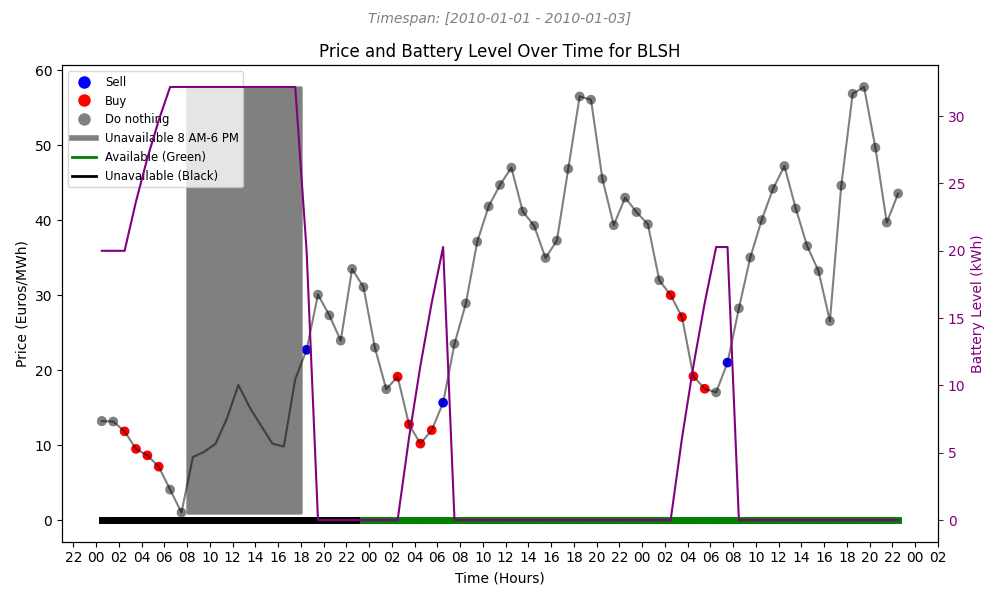
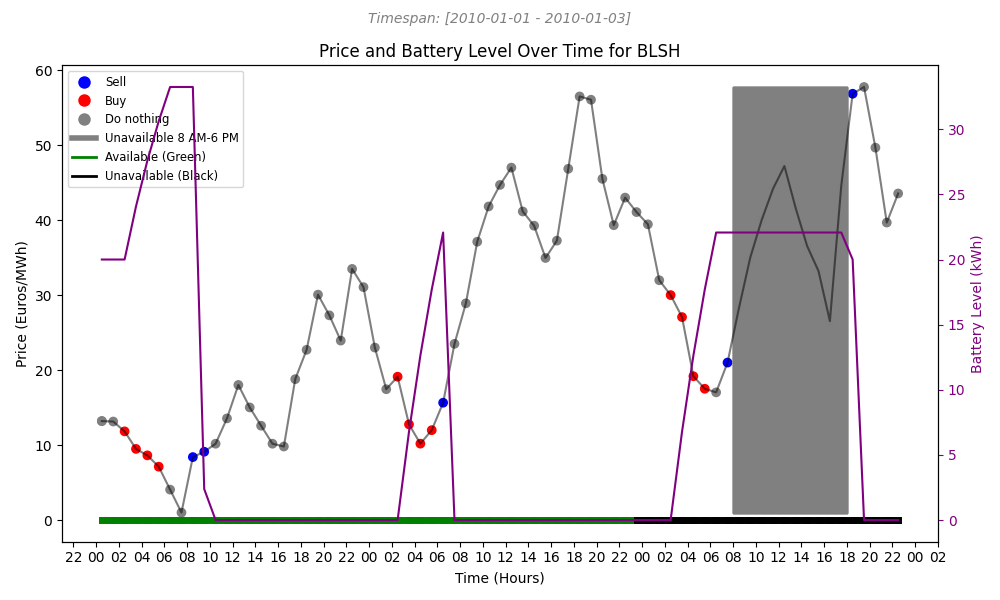
Fix electric car env

diff --git a/ElectricCarEnv.py b/ElectricCarEnv.py
@@ -54,10 +54,12 @@ class ElectricCarEnv(gym.Env):
             self.time_of_day = 1
             # Randomly decide if the car is available for the new day
             self.car_available = np.random.choice([0, 1])
-        # Clip the action to the maximum power
-        min_action = min(action, -min(self.max_power, self.max_battery - self.battery_level))
-        max_action = min(action, min(self.max_power, self.battery_level))
+
+        # Clip the action value to the minimum/maximum power
+        min_action = max(action, -min(self.max_power, self.max_battery - self.battery_level))
+        max_action = min(action / self.efficiency, min(self.max_power / self.efficiency, self.battery_level * self.efficiency))
         action = np.clip(action, min_action, max_action)
+
         # From 8AM to 6PM, unavailable cars can't be charged
         if not (8 <= self.time_of_day <= 18 and not self.car_available):
             # Calculate the change in battery level
@@ -71,7 +73,6 @@ class ElectricCarEnv(gym.Env):
             reward = (action * price if action > 0 else 2 * action * price / 0.9) / 1000
         else:
             reward = 0
-
         # After the car returns from 8AM-6PM, the battery level decreases by 20 kWh
         if self.time_of_day == 19 and not self.car_available:
             self.battery_level = max(self.battery_level - 20, self.min_required_battery)

diff --git a/pg_train.py b/pg_train.py
@@ -96,7 +96,7 @@ def train_policy_gradient(env: Env, policy_network: LSTM_PolicyNetwork, episodes
             # Policy network forward pass
             if random.random() < epsilon:
                 # Take a random action
-                action = torch.tensor(np.array([env.action_space.sample()]))
+                action = torch.from_numpy(np.array([env.action_space.sample()]))
                 use_policy = False
                 # Decay epsilon
                 epsilon *= e_decay
